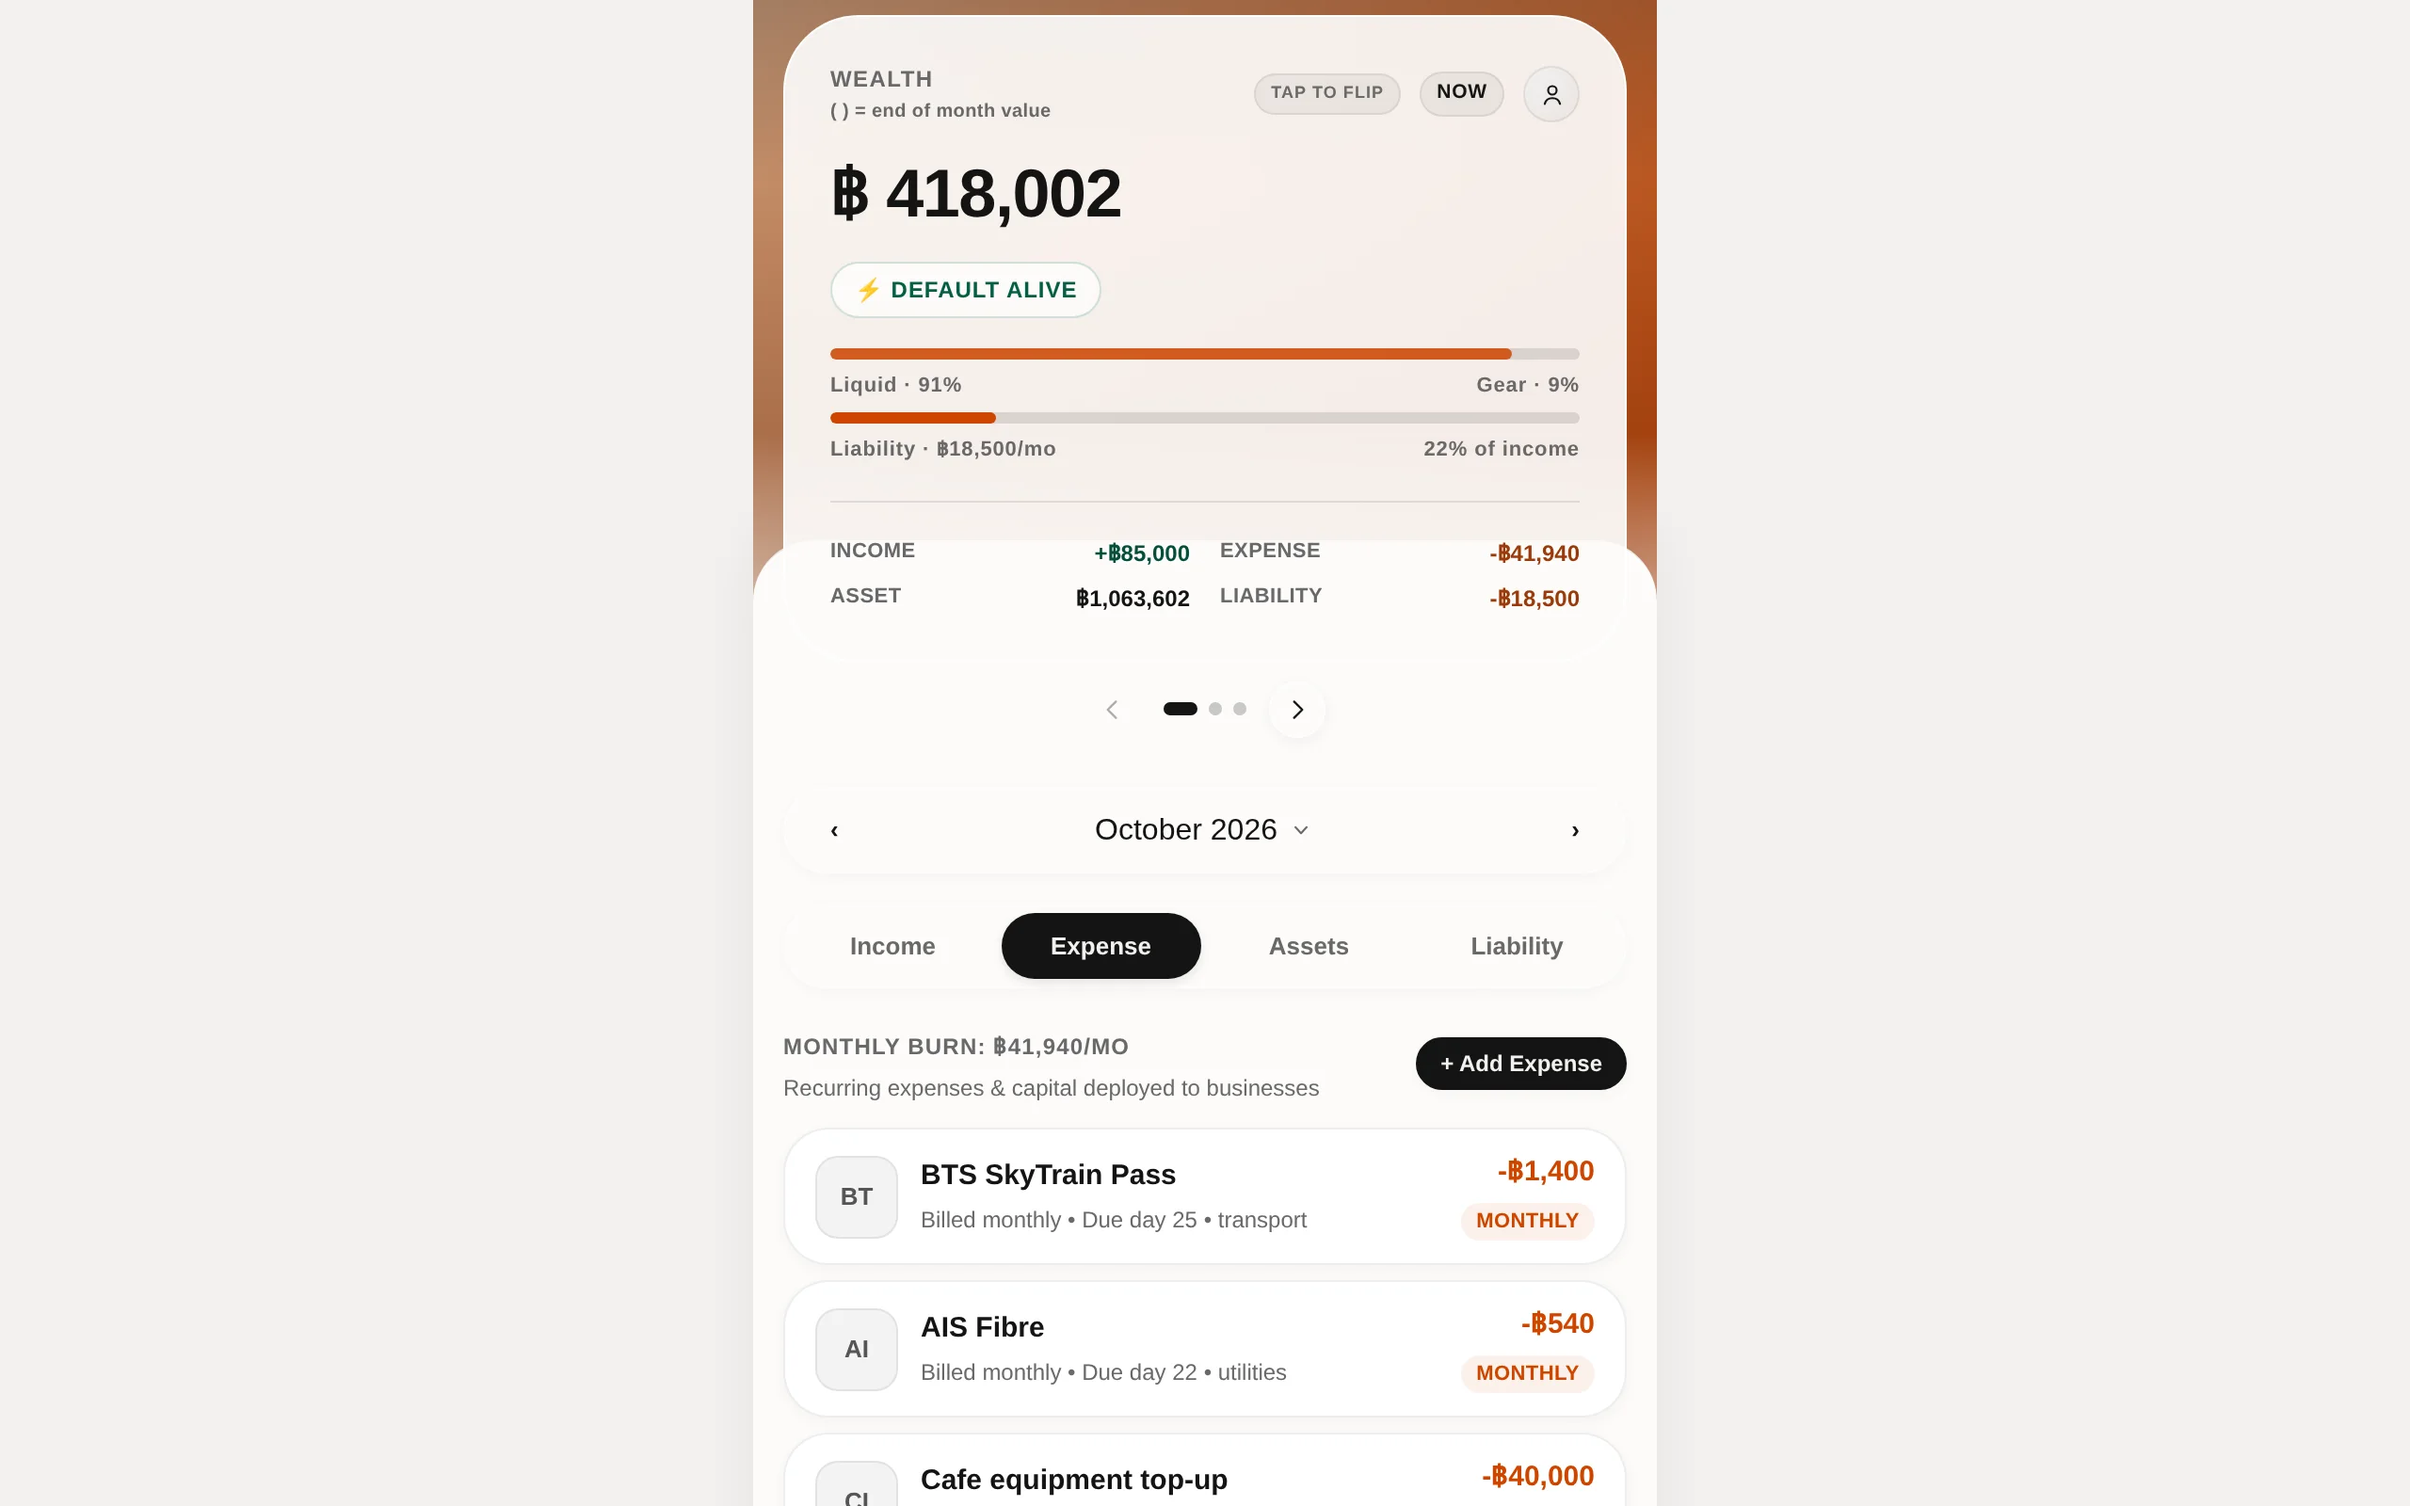
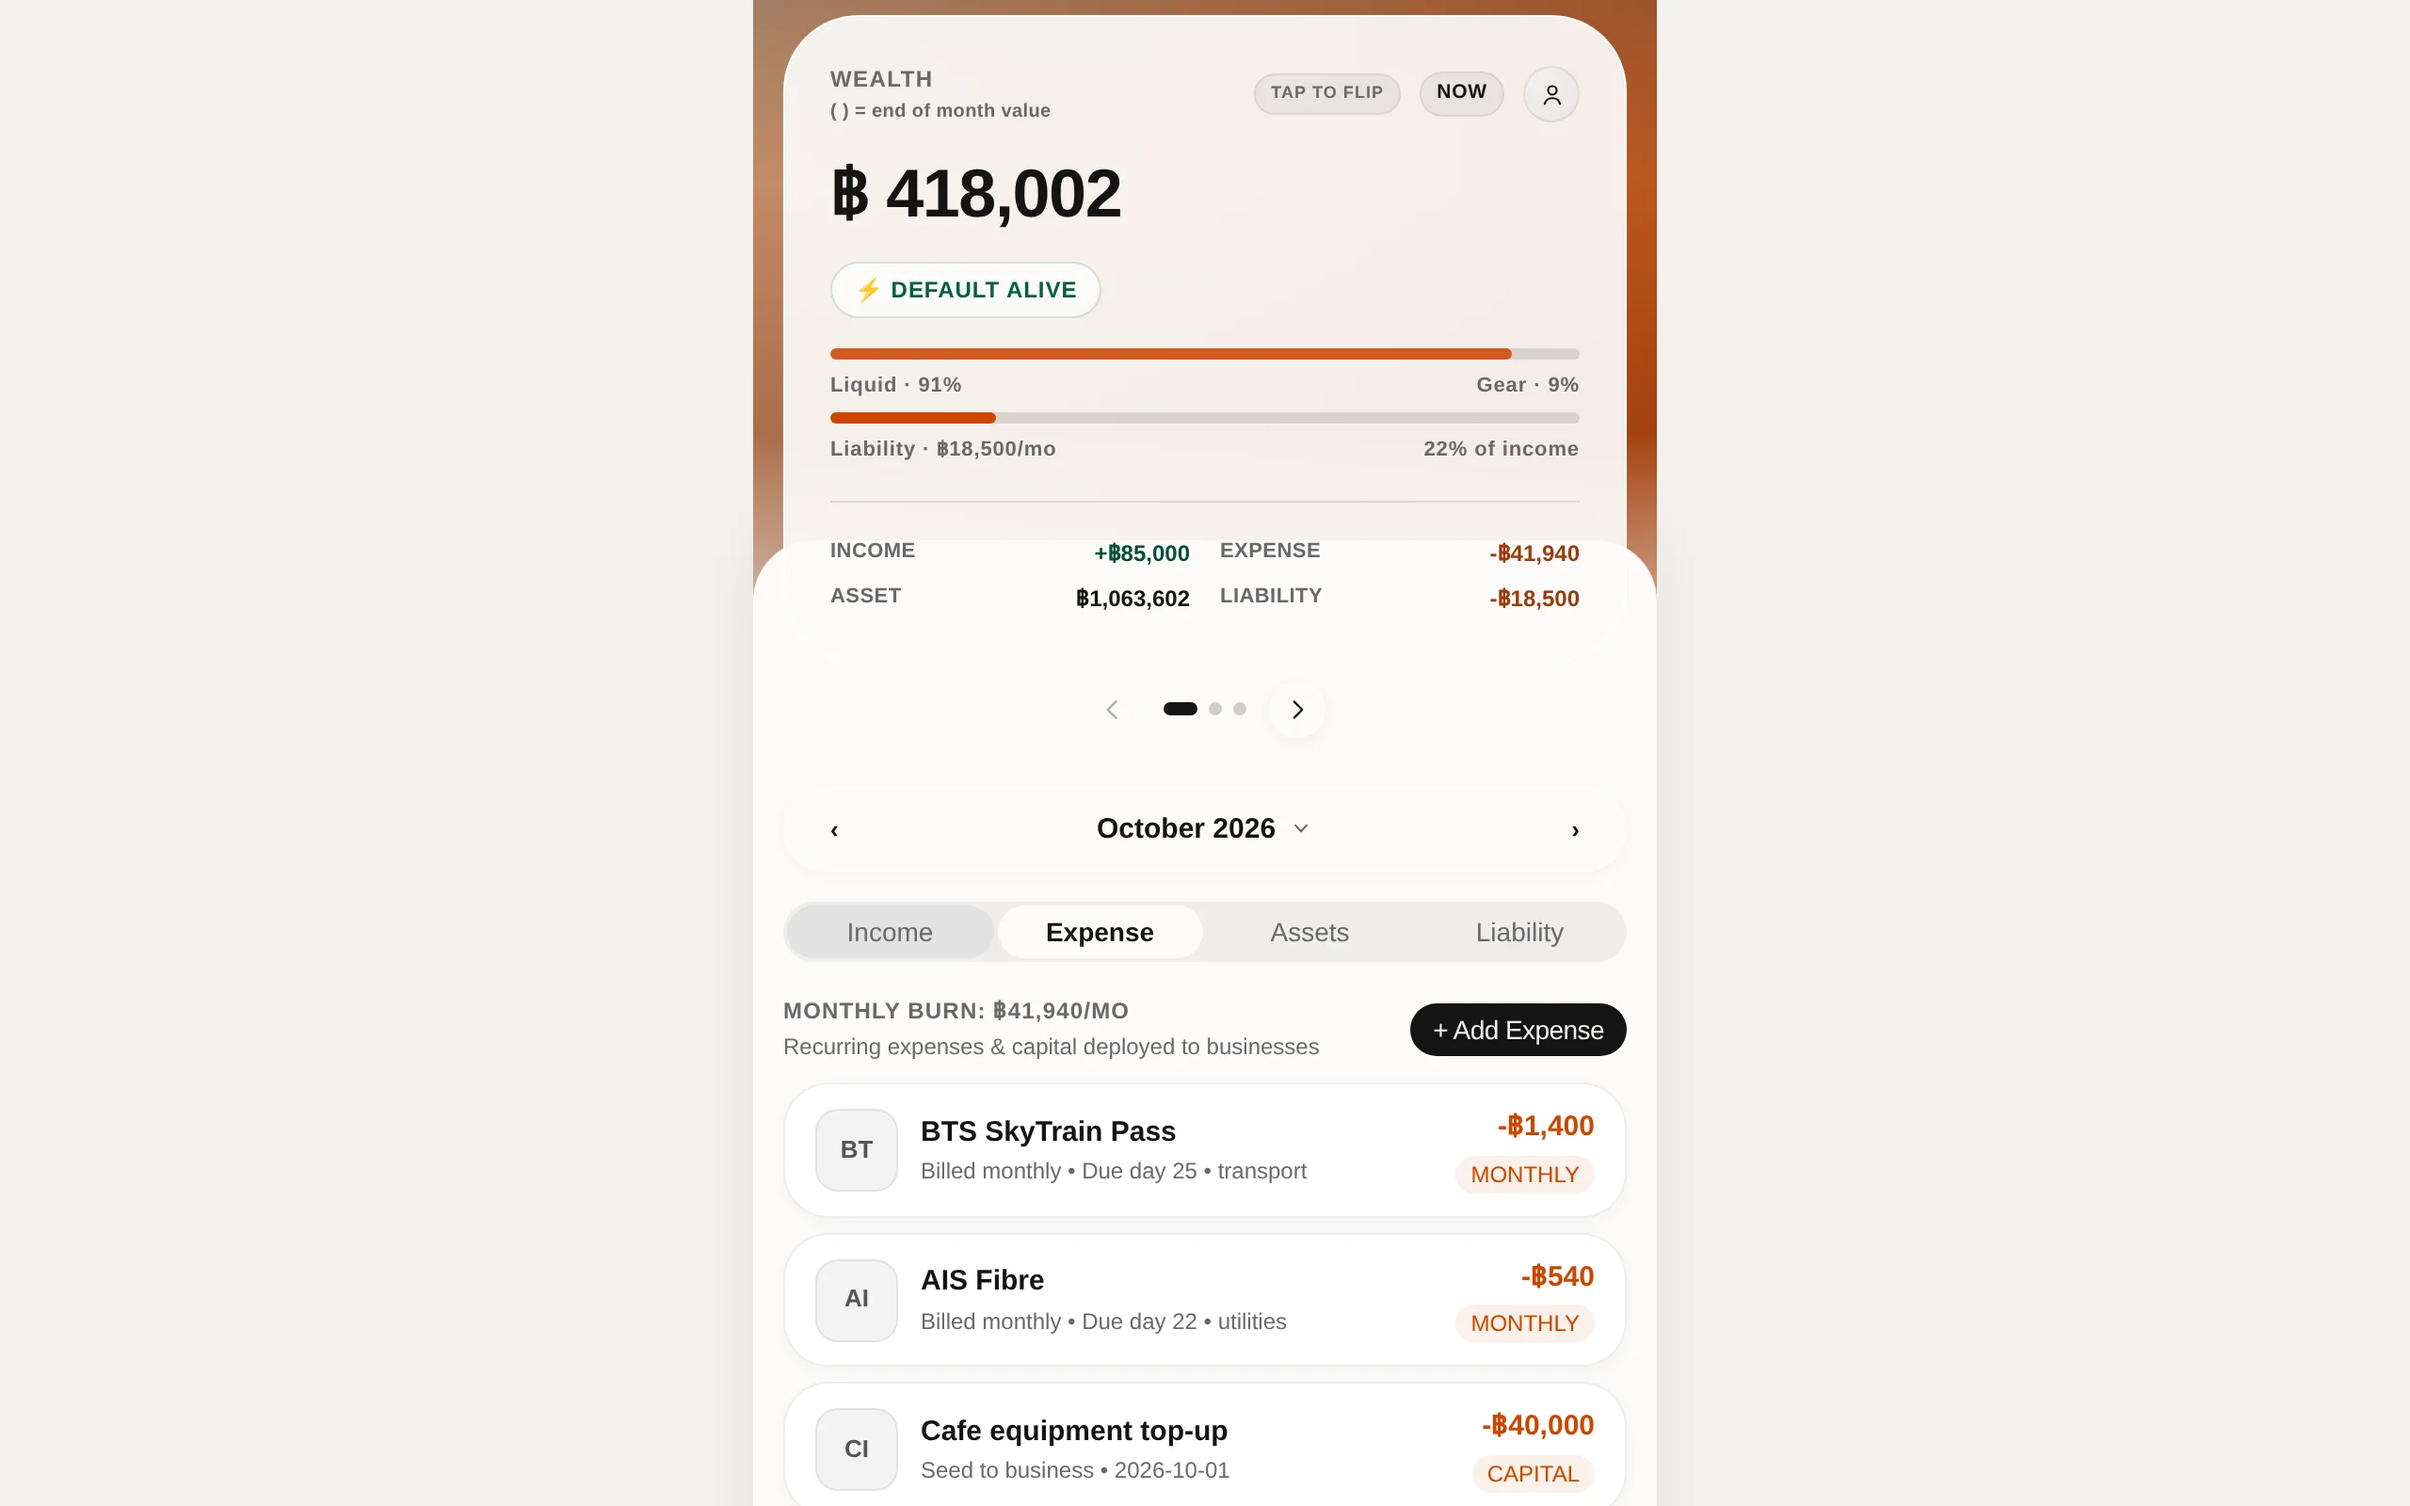
fix(landing): recapture app shots against the Astryx UI after rebase
Main migrated biz-mobile to Astryx components (#113). The sub-tabs are now
segmented-control radios, so the capture spec selects them by radio role,
and every landing screenshot is re-rendered from the new UI. Nudge the
"Every bill" crop so the month bar is not clipped.

diff --git a/apps/biz-mobile/src/landing.capture.spec.tsx b/apps/biz-mobile/src/landing.capture.spec.tsx
@@ -23,7 +23,7 @@ const OUT = path.resolve(here, "../../landingpage/public/app");
 type Shot = {
 	name: string;
 	story: string;
-	/** Visible text of a tab/button to click before capturing. */
+	/** Label of the sub-tab (a segmented-control radio) to select before capturing. */
 	click?: string;
 };
 
@@ -45,7 +45,7 @@ test.describe("landing capture", () => {
 			});
 			await mount(shot.story);
 			if (shot.click) {
-				await page.getByRole("button", { name: shot.click, exact: true }).click();
+				await page.getByRole("radio", { name: shot.click, exact: true }).click();
 			}
 			// The gallery has no app shell; mirror `.mobile-shell` (max 480px, 16px gutters)
 			// so cards and the hero banner sit exactly as they do in the real app.
